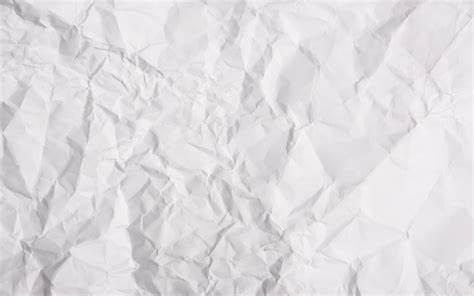
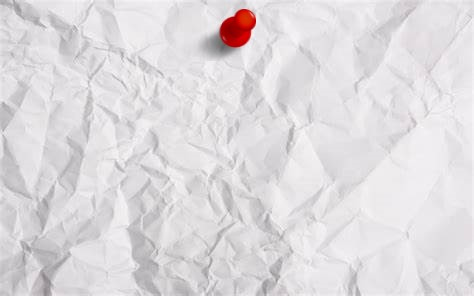
añadido ping en notas

Changed region(s): [[0.4135, 0.0304, 0.5612, 0.2128]]

diff --git a/src/views/Register/index.js b/src/views/Register/index.js
@@ -8,42 +8,48 @@ import { Form } from "../../Components/Form";
 import { Header } from "../../Components/Header";
 import { Footer } from "../../Components/Footer";
 
-
 export const Register = () => {
   const navigate = useNavigate();
-  
+
   const [registerData, setregisterData] = useState({
-    email: '',
-    password: '',
-  })
+    email: "",
+    password: "",
+  });
 
   const handleInputChangeRegister = (e) => {
-    let {name, value} = e.target
-    if(name !== "repetir email") {
-    let newData = {...registerData, [name]:value}
-    setregisterData(newData)}
-  }
+    let { name, value } = e.target;
+    if (name !== "repetir email") {
+      let newData = { ...registerData, [name]: value };
+      setregisterData(newData);
+    }
+  };
 
   const handleSubmitRegister = async (e) => {
-    e.preventDefault()
-      try {
-       await axios.post("http://localhost:8000/users" , registerData)
-      swal("Registro exitoso", "por favor revisa la casilla de correo para activar tu cuenta", 'success')
-      navigate(`/login`)
-       } catch (error) {
-       swal("An error has occured",error.response.data.message, "error")
-      } 
-
+    e.preventDefault();
+    try {
+      await axios.post("http://localhost:8000/users", registerData);
+      swal(
+        "Registro exitoso",
+        "por favor revisa la casilla de correo para activar tu cuenta",
+        "success"
+      );
+      navigate(`/login`);
+    } catch (error) {
+      swal("An error has occured", error.response.data.message, "error");
     }
+  };
   return (
     <div className="formRegister">
       <Header tituloVista="Register"></Header>
-      <Form handleInputChangeFunction = {handleInputChangeRegister} handleSubmitFunction = {handleSubmitRegister}
-      textoBoton="Register">
-       <div className="extra-input">
+      <Form
+        handleInputChangeFunction={handleInputChangeRegister}
+        handleSubmitFunction={handleSubmitRegister}
+        textoBoton="Register"
+      >
+        <div className="extra-input">
           <label htmlFor="repetiremail"> Repetir Contraseña</label>
-          <input  type="password" id="repetiremail" name="repetiremail" ></input>
-       </div>
+          <input type="password" id="repetiremail" name="repetiremail"></input>
+        </div>
       </Form>
       <Footer></Footer>
     </div>

diff --git a/src/Components/NotesSection/style.css b/src/Components/NotesSection/style.css
@@ -18,18 +18,19 @@
 }
 .notesPanel ul li {
   background-image: url("../../../public/img/notita.jpg");
+  background-size: cover;
   display: flex;
   flex-direction: column;
   box-shadow: 5px 5px 15px gray;
   align-items: center;
   border: 0.5px solid rgba(199, 196, 196, 0.966);
-  height: 17rem;
+  height: 15rem;
   max-width: 13.5rem;
   padding: 0.5rem;
   text-align: center;
   font-family: "Caveat", cursive;
   font-size: 1.5rem;
   box-shadow: 4px 5px rgba(0, 0, 0, 0.2);
-  overflow-y: scroll;
-  overflow-x:hidden
+  overflow-y: auto;
+  overflow-x: hidden;
 }
